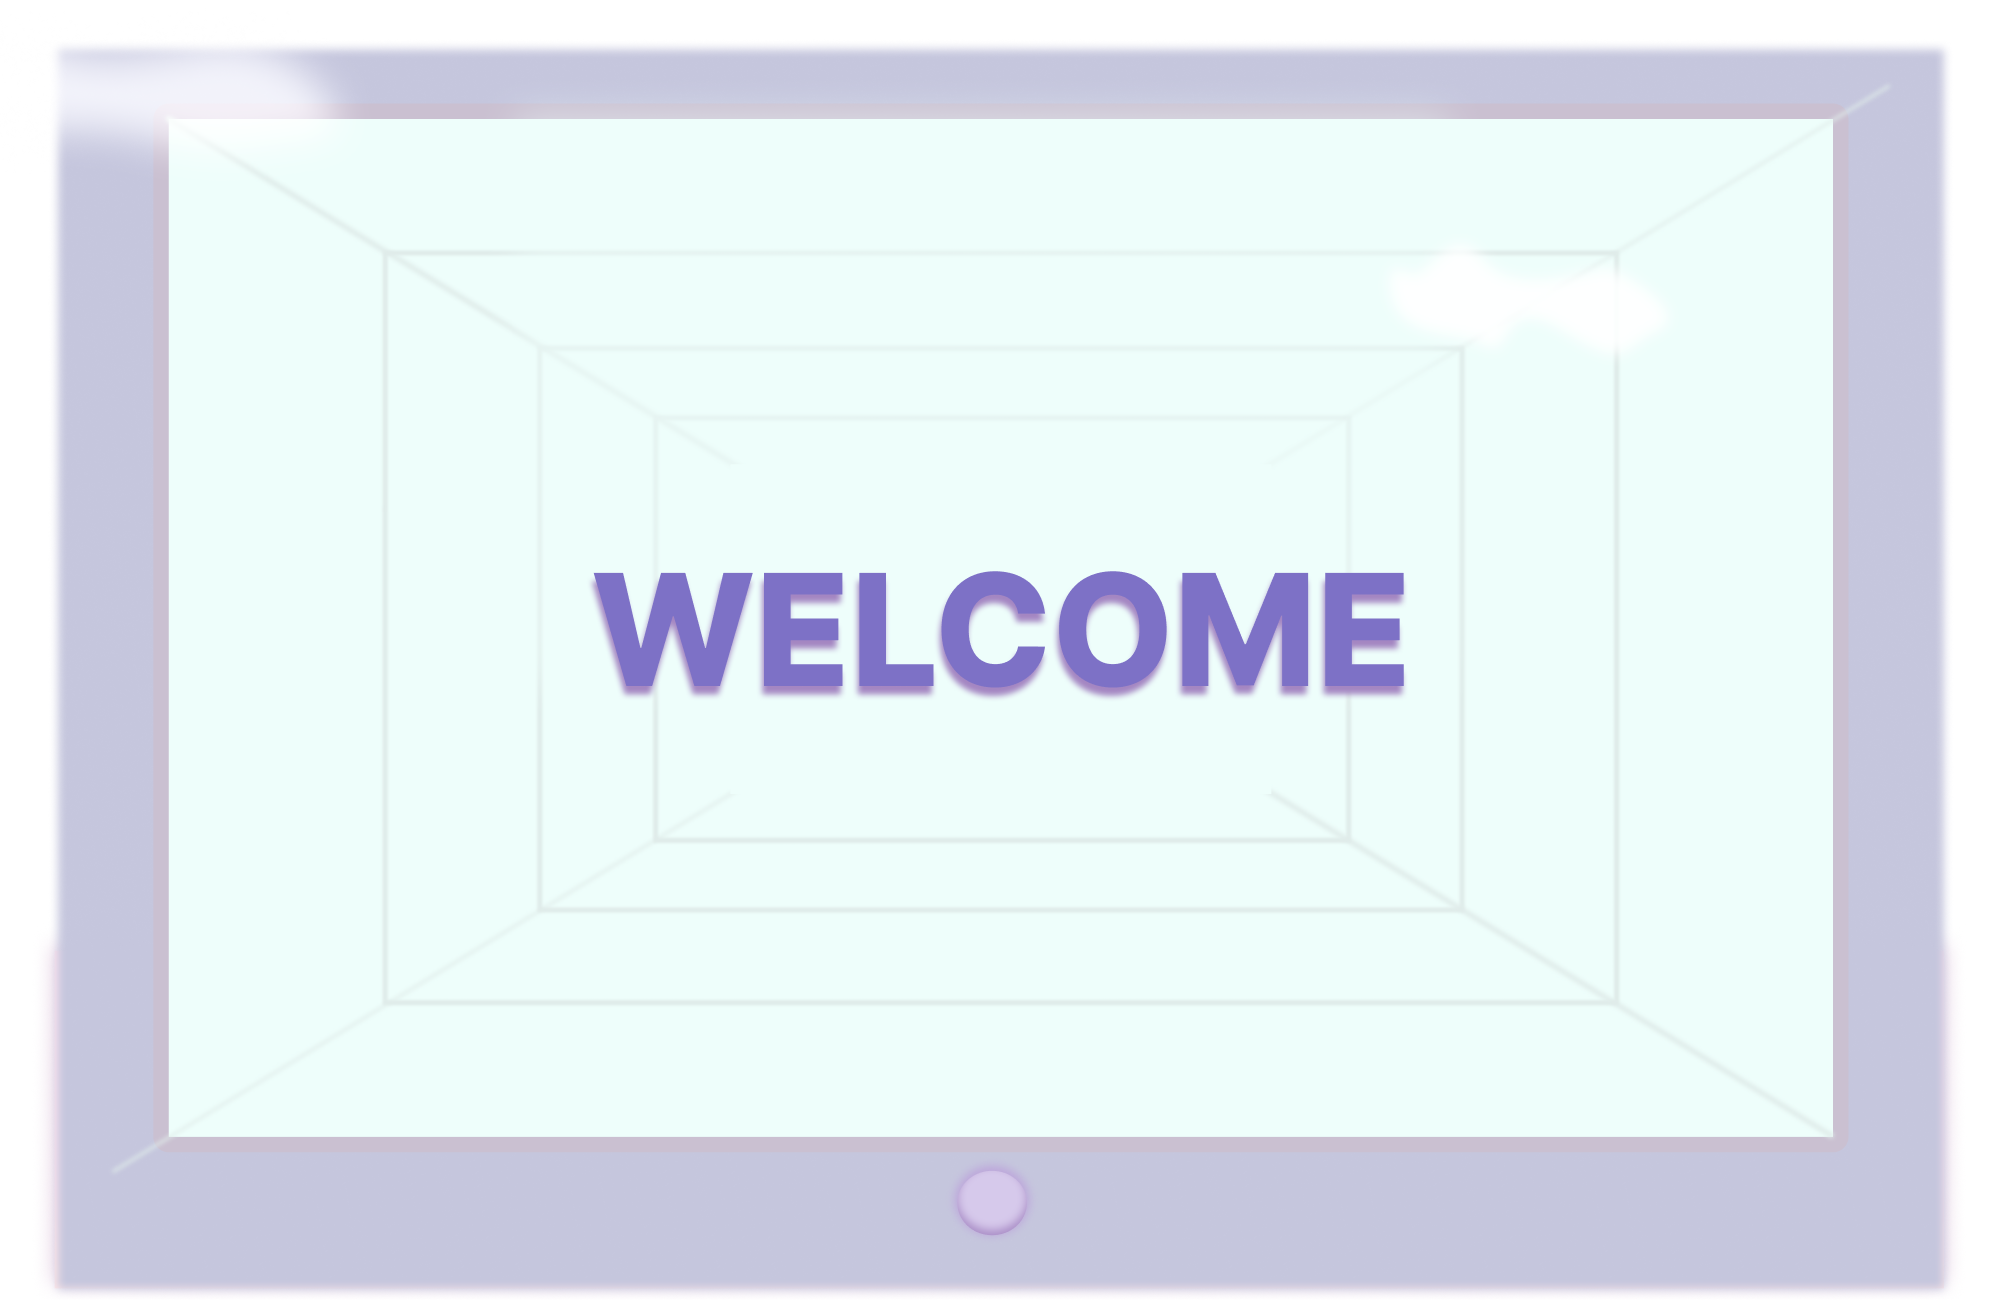
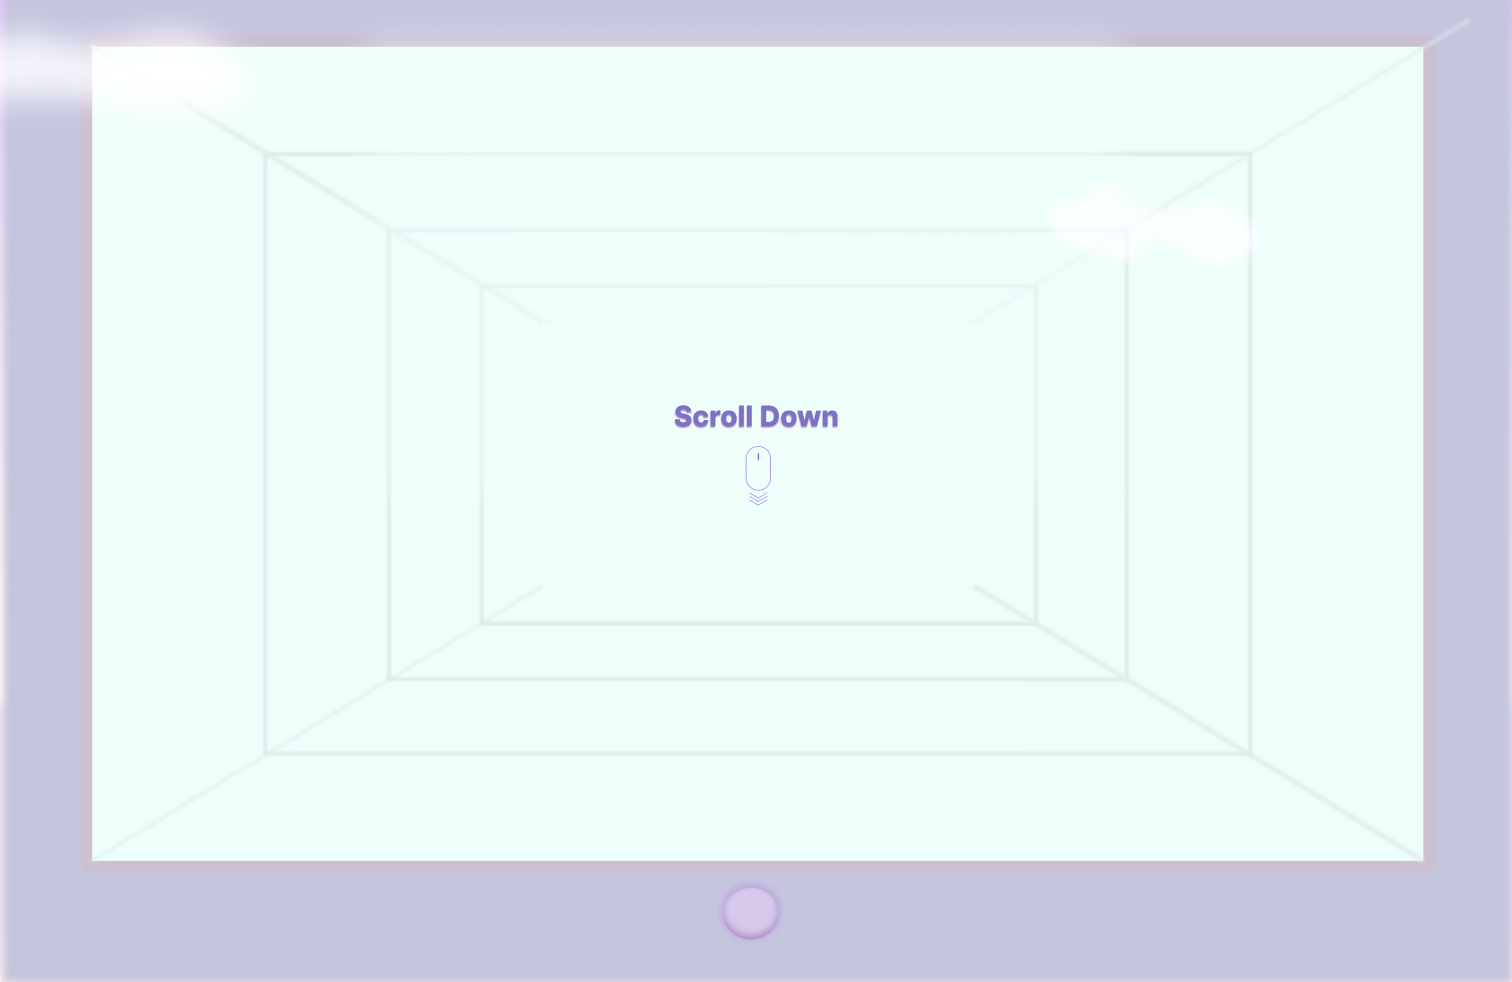
structure works

Changed region(s): [[0.0, 0.0, 1.0, 1.0], [0.2798, 0.3971, 0.7149, 0.5499], [0.0622, 0.0916, 0.0933, 0.8859]]

diff --git a/Self_As_System/index.html b/Self_As_System/index.html
@@ -10,37 +10,39 @@
   <body>
     <section class="wrap">
       <img class="zoom" src="/Self_As_System/images/Welcome page.png" -- />
-      <h1 class="zoomtext">Keep Scrolling Down</h1>
+      <h1 class="zoomtext">Wanna guess<br />my stress level? <br /></h1>
     </section>
-    <section class="bottom">
-      <div class="hidden">
-        <h1 class="textappear">Hey there, here I am!</h1>
-        <p class="textappear">
-          <br /><br />Bini Park <br /><br /><br />
-          An incredible data analyst hailing from the concrete jungle of New
-          York, surviving the chaos of city life, and what do I do? <br />Well,
-          I decided to whip up this quirky little game
-          <br />
-          <br />
-          <br />. <br />. <br />. <br />. <br />. <br />. <br />. <br />.
-          <br />.<br />.<br />.<br />.<br />
-        </p>
-        <h1 class="textappear">“GUESS MY STRESS LEVEL”</h1>
-      </div>
-    </section>
-    <section class="bottomstart">
-      <div class="hidden">
-        <div class="image-container">
-          <!-- <img class="zoom" src="/Self_As_System/images/start1.png" /> -->
-          <button class="image-button">
-            <span class="button-text">
-              <a href="/Self_As_System/context.html">Shell we Start?</a></span
-            >
-          </button>
-          <img class="zoom" src="/Self_As_System/images/bigtv.png" />
-          <!-- <button class="centered-button">Click Me</button> -->
+    <div style="background-image: url(/Self_As_System/images/background.png)">
+      <section class="bottom">
+        <div class="hidden">
+          <h1 class="textappear">Hey there, here I am!</h1>
+          <p class="textappear">
+            <br /><br />Bini Park <br /><br /><br />
+            An incredible data analyst hailing from the concrete jungle of New
+            York, surviving the chaos of city life, and what do I do?
+            <br />Well, I decided to whip up this quirky little game
+            <br />
+            <br />
+            <br />. <br />. <br />. <br />. <br />. <br />. <br />. <br />.
+            <br />.<br />.<br />.<br />.<br />
+          </p>
+          <h1 class="textappear">“GUESS MY STRESS LEVEL”</h1>
         </div>
-      </div>
-    </section>
+      </section>
+      <section class="bottomstart">
+        <div class="hidden">
+          <div class="image-container">
+            <!-- <img class="zoom" src="/Self_As_System/images/start1.png" /> -->
+            <button class="image-button">
+              <span class="button-text">
+                <a href="/Self_As_System/context.html">Shell we Start?</a></span
+              >
+            </button>
+            <img class="zoom" src="/Self_As_System/images/bigtv.png" />
+            <!-- <button class="centered-button">Click Me</button> -->
+          </div>
+        </div>
+      </section>
+    </div>
   </body>
 </html>

diff --git a/Self_As_System/js/question.js b/Self_As_System/js/question.js
@@ -84,9 +84,24 @@ document.addEventListener("DOMContentLoaded", function () {
     },
   ];
 
+  var contexts = [
+    "You woke up feeling refreshed and ready to start your day.",
+    "You're lying in bed with your brain buzzing, but your body is still asleep.",
+    "You woke up feeling refreshed and ready to start your day.",
+    "You're lying in bed with your brain buzzing, but your body is still asleep.",
+    "You woke up feeling refreshed and ready to start your day.",
+    "You're lying in bed with your brain buzzing, but your body is still asleep.",
+    "You woke up feeling refreshed and ready to start your day.",
+    "You're lying in bed with your brain buzzing, but your body is still asleep.",
+    "You woke up feeling refreshed and ready to start your day.",
+    "You're lying in bed with your brain buzzing, but your body is still asleep.",
+  ];
+
   var currentQuestionIndex = 0;
   var score = 0;
   var isAnswerSelected = false;
+
+  var contextTextElement = document.getElementById("contexts");
 
   // Get HTML elements
   var questionElement = document.getElementById("question");
@@ -105,6 +120,13 @@ document.addEventListener("DOMContentLoaded", function () {
   // Show the first question
   showQuestion();
 
+  // Call displayContext when the page loads
+  // displayContext();
+
+  function displayContext() {
+    // Display the context
+    contextTextElement.textContent = contexts[currentQuestionIndex];
+  }
   // Function to display the current question and options
   function showQuestion() {
     var currentQuestion = questions[currentQuestionIndex];
@@ -152,6 +174,14 @@ document.addEventListener("DOMContentLoaded", function () {
           this.classList.add("btn-answer-selected");
         }
       };
+    }
+
+    // Display the context if there are more questions to show
+    if (currentQuestionIndex < questions.length) {
+      displayContext();
+    } else {
+      // Hide the context when you reach the last question
+      contextTextElement.textContent = "";
     }
   }
 
@@ -232,6 +262,9 @@ document.addEventListener("DOMContentLoaded", function () {
     quizContainer.style.display = "none";
     var resultContainer = document.getElementById("result-container");
     resultContainer.style.display = "none";
+
+    var contextContainer = document.querySelector(".contextcontainer");
+    contextContainer.style.display = "none";
 
     // Show the guess container
     guessContainer.style.display = "block";

diff --git a/Self_As_System/css/quesion.css b/Self_As_System/css/quesion.css
@@ -14,6 +14,7 @@ h2 {
   color: black;
   margin-top: 65px;
   width: 650px;
+  height: 50px;
   padding-left: 100px;
 }
 
@@ -22,8 +23,8 @@ a {
   color: darkorchid;
 }
 p {
-  font-size: 1.5rem;
-  color: gray;
+  font-size: 1.3rem;
+  color: rgb(55, 55, 55);
   padding: auto;
   margin: 0 auto;
   width: 600px;
@@ -45,7 +46,7 @@ body {
   width: 100vw;
   height: 40vh;
   /* background-color: bisque; */
-  background-image: linear-gradient(#e5c8f6, #fff6ee, #ffffff);
+  background-image: url(/Self_As_System/images/Startpage.png);
   background-size: 100%;
   background-repeat: no-repeat;
 }
@@ -74,6 +75,7 @@ input {
 /* Adjust button styles */
 .endingBtn {
   font-size: 20px;
+  color: gray;
   width: 150px; /* Adjust button width as needed */
 }
 
@@ -125,7 +127,8 @@ input {
 }
 
 .btn:hover {
-  mix-blend-mode: multiply;
+  /* mix-blend-mode: color-burn; */
+  filter: grayscale(100%);
 }
 
 .btn-next:hover {
@@ -135,7 +138,7 @@ input {
 
 .btn-answer-selected {
   /* background-color: coral; */
-  mix-blend-mode: multiply;
+  filter: grayscale(100%);
 }
 
 .center-tittle {
@@ -155,7 +158,8 @@ input {
   background-repeat: no-repeat;
   padding: 10px;
   border-radius: 5px;
-  margin-top: 200px;
+  margin-top: 300px;
+  margin-bottom: 50px;
   /* box-shadow: 0 0 10px 2px; */
 }
 
@@ -170,9 +174,16 @@ input {
   /* box-shadow: 0 0 10px 2px; */
 }
 
+.flex-container {
+  display: flex;
+  flex-direction: column;
+  margin-top: 200px;
+  column-gap: 10px;
+}
+
 ul {
   list-style-type: none;
-  padding: 0;
+  font-size: 20px;
 }
 
 li {
@@ -185,6 +196,29 @@ li {
   font-size: 20px;
 }
 
+.contextcontainer {
+  display: flex;
+  flex-direction: column;
+  justify-content: center;
+  box-shadow: 0 0 10px 2px;
+  background-color: #ffe8e8;
+  box-shadow: 0px 16px 5px #f1d2d2 inset;
+  box-shadow: 10px 10px 5px #a486c2;
+  height: 200px;
+  width: 800px;
+}
+
+#guess-input {
+  width: 250px;
+  box-shadow: 0px 5px 5px #f1d2d2 inset;
+  box-shadow: 5px 5px 5px #adabeb;
+  background-color: #ffe8e8;
+  border: 1px solid #e4c0c0;
+  border-radius: 5px;
+  padding: 30px;
+  justify-content: center;
+}
+
 .top_ani {
   animation-duration: 1.5s;
   animation-name: topslide;
@@ -194,7 +228,6 @@ li {
 @keyframes topslide {
   from {
     transform: translateY(-100%);
-    /* You can also add opacity animation if needed */
   }
   to {
     transform: translateY(0%);

diff --git a/Self_As_System/question.html b/Self_As_System/question.html
@@ -9,22 +9,31 @@
     <script defer src="/Self_As_System/js/question.js"></script>
   </head>
   <body>
+    <div class="flex-container">
     <div class="container top_ani" id="quiz-container">
       <h2 id="question"></h2>
 
-      <ul id="answers" class="list-group">
-        <li class="list-group-item">
-          <button class="answer"></button>
+      <ul id="answers">
+        <li>
+          <button></button>
         </li>
-        <li class="list-group-item">
-          <button class="answer"></button>
+        <li>
+          <button></button>
         </li>
-        <li class="list-group-item">
-          <button class="answer"></button>
+        <li>
+          <button></button>
         </li>
       </ul>
       <button id="next-btn" class="btn-next">Next</button>
     </div>
+
+    <div class="contextcontainer">
+      <ul id="contexts">
+        <!-- Add a placeholder for the initial text -->
+        <h3>Initial Text</h3>
+      </ul>
+    </div>
+  </div>
 
     <div class="container hide" id="guess-container">
       <h2>Guess Your Stress Level</h2>

diff --git a/Self_As_System/css/style.css b/Self_As_System/css/style.css
@@ -6,9 +6,8 @@
 }
 
 body {
-  /* background-image: url(/Self_As_System/images/background.png); */
-  background-image: linear-gradient(#e5c8f6, #fff6ee, #ffffff);
   width: 100%;
+  height: 100%;
   margin: 0;
 }
 
@@ -30,12 +29,17 @@ a {
 .zoomtext {
   position: sticky;
   top: 50%;
-  left: 50%; /* Center horizontally within the container */
-  /* transform: translate(-50%, -50%); */
+  left: 50%;
   will-change: transformtext;
   text-align: center;
-  color: #e0caff;
+  color: #d1bfed;
+  text-shadow: 1px 1px 2px rgb(100, 69, 126);
+  backdrop-filter: blur(10px) saturate(70%);
+  border: 10px;
+  padding: 100px;
+  background-image: linear-gradient(#e5c8f6, #fff6ee, #ffffff);
   font-size: 120px;
+  line-height: 200px;
 }
 
 p {

diff --git a/Self_As_System/css/context.css b/Self_As_System/css/context.css
@@ -31,7 +31,7 @@ body {
   text-align: center;
   width: 100vw;
   height: 40vh;
-  background-image: linear-gradient(#e5c8f6, #fff6ee, #ffffff);
+  background-image: url(/Self_As_System/images/Startpage.png);
   background-size: 100%;
   background-repeat: no-repeat;
 }
